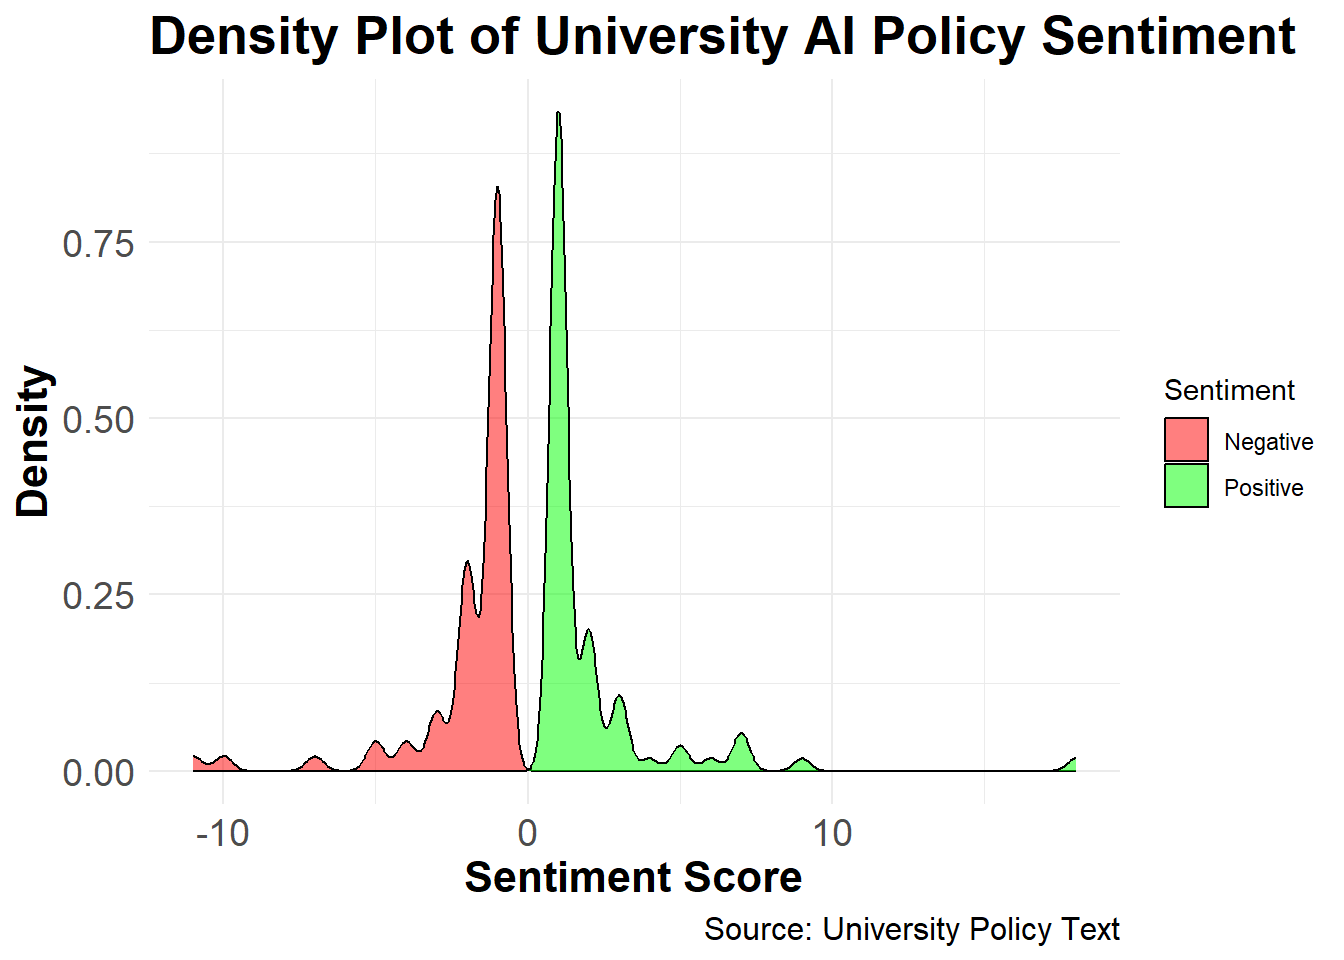
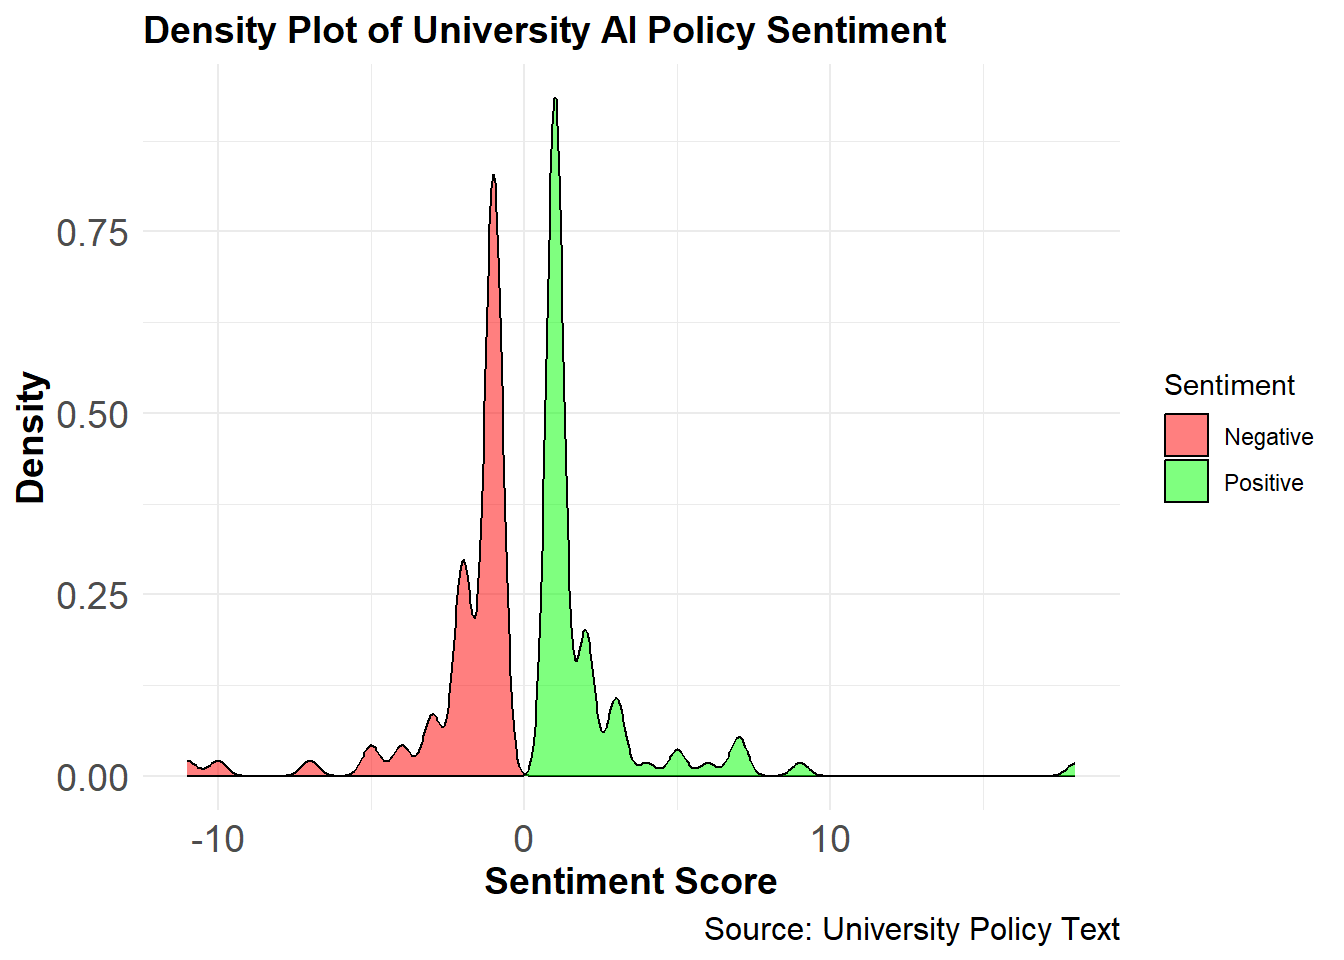
Promote conclusion to Chapter 12 and re-render book outputs

diff --git a/docs/chapter-6.html b/docs/chapter-6.html
@@ -441,7 +441,7 @@ div.csl-indent {
 </li>
           <li class="sidebar-item">
   <div class="sidebar-item-container"> 
-  <a href="./conclusion.html" class="sidebar-item-text sidebar-link"><span class="chapter-title">Conclusion</span></a>
+  <a href="./chapter-12.html" class="sidebar-item-text sidebar-link"><span class="chapter-title">Conclusion</span></a>
   </div>
 </li>
       </ul>
@@ -843,15 +843,19 @@ div.csl-indent {
 <span id="cb8-6"><a href="#cb8-6" aria-hidden="true" tabindex="-1"></a>    <span class="at">pct_admitted =</span> drvadm2022_percent_admitted_total, <span class="co"># Admission percentage</span></span>
 <span id="cb8-7"><a href="#cb8-7" aria-hidden="true" tabindex="-1"></a>    <span class="at">tuition_fees =</span> drvic2022_tuition_and_fees_2021_22, <span class="co"># Tuition fees</span></span>
 <span id="cb8-8"><a href="#cb8-8" aria-hidden="true" tabindex="-1"></a>    <span class="at">grad_rate =</span> drvgr2022_graduation_rate_total_cohort, <span class="co"># Graduation rate</span></span>
-<span id="cb8-9"><a href="#cb8-9" aria-hidden="true" tabindex="-1"></a>    <span class="at">percent_fin_aid =</span> sfa2122_percent_of_full_time_first_time_undergraduates_awarded_any_financial_aid, <span class="co"># Financial aid</span></span>
-<span id="cb8-10"><a href="#cb8-10" aria-hidden="true" tabindex="-1"></a>    <span class="at">avg_salary =</span> drvhr2022_average_salary_equated_to_9_months_of_full_time_instructional_staff_all_ranks <span class="co"># Staff salary</span></span>
-<span id="cb8-11"><a href="#cb8-11" aria-hidden="true" tabindex="-1"></a>  ) <span class="sc">|&gt;</span></span>
-<span id="cb8-12"><a href="#cb8-12" aria-hidden="true" tabindex="-1"></a>  <span class="fu">filter</span>(<span class="sc">!</span><span class="fu">is.na</span>(grad_rate)) <span class="sc">|&gt;</span> <span class="co"># Remove rows with missing graduation rates</span></span>
-<span id="cb8-13"><a href="#cb8-13" aria-hidden="true" tabindex="-1"></a>  <span class="fu">mutate</span>(</span>
-<span id="cb8-14"><a href="#cb8-14" aria-hidden="true" tabindex="-1"></a>    <span class="co"># Create binary dependent variable for high graduation rates (median split or threshold)</span></span>
-<span id="cb8-15"><a href="#cb8-15" aria-hidden="true" tabindex="-1"></a>    <span class="at">good_grad_rate =</span> <span class="fu">if_else</span>(grad_rate <span class="sc">&gt;</span> <span class="dv">62</span>, <span class="dv">1</span>, <span class="dv">0</span>),</span>
-<span id="cb8-16"><a href="#cb8-16" aria-hidden="true" tabindex="-1"></a>    <span class="at">good_grad_rate =</span> <span class="fu">as.factor</span>(good_grad_rate) <span class="co"># Convert to factor for classification</span></span>
-<span id="cb8-17"><a href="#cb8-17" aria-hidden="true" tabindex="-1"></a>  )</span></code></pre></div><button title="Copy to Clipboard" class="code-copy-button"><i class="bi"></i></button></div>
+<span id="cb8-9"><a href="#cb8-9" aria-hidden="true" tabindex="-1"></a>    <span class="co"># Financial aid</span></span>
+<span id="cb8-10"><a href="#cb8-10" aria-hidden="true" tabindex="-1"></a>    <span class="at">percent_fin_aid =</span> </span>
+<span id="cb8-11"><a href="#cb8-11" aria-hidden="true" tabindex="-1"></a>      sfa2122_percent_of_full_time_first_time_undergraduates_awarded_any_financial_aid, </span>
+<span id="cb8-12"><a href="#cb8-12" aria-hidden="true" tabindex="-1"></a>    <span class="co"># Staff salary</span></span>
+<span id="cb8-13"><a href="#cb8-13" aria-hidden="true" tabindex="-1"></a>    <span class="at">avg_salary =</span> </span>
+<span id="cb8-14"><a href="#cb8-14" aria-hidden="true" tabindex="-1"></a>      drvhr2022_average_salary_equated_to_9_months_of_full_time_instructional_staff_all_ranks </span>
+<span id="cb8-15"><a href="#cb8-15" aria-hidden="true" tabindex="-1"></a>  ) <span class="sc">|&gt;</span></span>
+<span id="cb8-16"><a href="#cb8-16" aria-hidden="true" tabindex="-1"></a>  <span class="fu">filter</span>(<span class="sc">!</span><span class="fu">is.na</span>(grad_rate)) <span class="sc">|&gt;</span> <span class="co"># Remove rows with missing graduation rates</span></span>
+<span id="cb8-17"><a href="#cb8-17" aria-hidden="true" tabindex="-1"></a>  <span class="fu">mutate</span>(</span>
+<span id="cb8-18"><a href="#cb8-18" aria-hidden="true" tabindex="-1"></a>    <span class="co"># Create binary dependent variable for high graduation rates (median split or threshold)</span></span>
+<span id="cb8-19"><a href="#cb8-19" aria-hidden="true" tabindex="-1"></a>    <span class="at">good_grad_rate =</span> <span class="fu">if_else</span>(grad_rate <span class="sc">&gt;</span> <span class="dv">62</span>, <span class="dv">1</span>, <span class="dv">0</span>),</span>
+<span id="cb8-20"><a href="#cb8-20" aria-hidden="true" tabindex="-1"></a>    <span class="at">good_grad_rate =</span> <span class="fu">as.factor</span>(good_grad_rate) <span class="co"># Convert to factor for classification</span></span>
+<span id="cb8-21"><a href="#cb8-21" aria-hidden="true" tabindex="-1"></a>  )</span></code></pre></div><button title="Copy to Clipboard" class="code-copy-button"><i class="bi"></i></button></div>
 </div>
 </section>
 <section id="step-4-exploratory-data-analysis-eda" class="level4">

diff --git a/docs/colophon.html b/docs/colophon.html
@@ -34,7 +34,7 @@ ul.task-list li input[type="checkbox"] {
 <script src="site_libs/quarto-search/quarto-search.js"></script>
 <meta name="quarto:offset" content="./">
 <link href="./references.html" rel="next">
-<link href="./conclusion.html" rel="prev">
+<link href="./chapter-12.html" rel="prev">
 <script src="site_libs/quarto-html/quarto.js" type="module"></script>
 <script src="site_libs/quarto-html/tabsets/tabsets.js" type="module"></script>
 <script src="site_libs/quarto-html/popper.min.js"></script>
@@ -386,7 +386,7 @@ ul.task-list li input[type="checkbox"] {
 </li>
           <li class="sidebar-item">
   <div class="sidebar-item-container"> 
-  <a href="./conclusion.html" class="sidebar-item-text sidebar-link"><span class="chapter-title">Conclusion</span></a>
+  <a href="./chapter-12.html" class="sidebar-item-text sidebar-link"><span class="chapter-title">Conclusion</span></a>
   </div>
 </li>
       </ul>
@@ -442,14 +442,14 @@ ul.task-list li input[type="checkbox"] {
 <p>This book was written in <a href="https://quarto.org/">Quarto</a> and rendered to HTML and PDF. All analyses were conducted in R. The source code is available at the book’s GitHub repository.</p>
 <section id="about-the-authors" class="level2">
 <h2 class="anchored" data-anchor-id="about-the-authors">About the Authors</h2>
-<p><strong>Wei Wang</strong> is a PhD student in Learning, Design, and Technology at the University of Tennessee, Knoxville. His research focuses on generative AI in education, educational data science, and evaluation methods. Website: <a href="https://wwang93.github.io/Vino-Wang-Website/" class="uri">https://wwang93.github.io/Vino-Wang-Website/</a></p>
+<p><strong>Wei Wang</strong> is a PhD Candidate in Learning, Design, and Technology at the University of Tennessee, Knoxville. His research focuses on generative AI in education, educational data science, and evaluation methods. Website: <a href="https://wwang93.github.io/Vino-Wang-Website/" class="uri">https://wwang93.github.io/Vino-Wang-Website/</a></p>
 <p><strong>Mete Akcaoglu</strong> is Professor of Instructional Technology and Chair of the Department of Learning, Teaching, and Human Development at Georgia Southern University. His research examines game-based learning, interest development, computational thinking, and online pedagogy, with a methodological focus on computational approaches to educational data. Website: <a href="https://meteakcaoglu.com/" class="uri">https://meteakcaoglu.com/</a></p>
 <p><strong>Joshua M. Rosenberg</strong> is Haslam Family Professor and Associate Professor of STEM Education at the University of Tennessee, Knoxville. His research focuses on learning analytics, educational data science, and open, reproducible research in education. Website: <a href="https://joshuamrosenberg.com/" class="uri">https://joshuamrosenberg.com/</a></p>
 <p><strong>Shaun Kellogg</strong> is Senior Director of the Office of Research and Promising Practices at the North Carolina Department of Public Instruction. His work focuses on evidence-based decision-making, research-practice partnerships, and the use of data to improve educational outcomes. Website: <a href="https://www.dpi.nc.gov/blog/2025/09/17/how-ncdpis-office-research-promising-practices-turns-evidence-action" class="uri">https://www.dpi.nc.gov/blog/2025/09/17/how-ncdpis-office-research-promising-practices-turns-evidence-action</a></p>
 <p>The R session information below documents the computational environment used to produce this edition, including the R version, platform, and all packages loaded during rendering.</p>
 <div class="cell">
 <div class="cell-output cell-output-stdout">
-<pre><code>Build date: May 01, 2026 </code></pre>
+<pre><code>Build date: May 18, 2026 </code></pre>
 </div>
 <div class="cell-output cell-output-stdout">
 <pre><code>Quarto version: 1.9.37 </code></pre>
@@ -906,7 +906,7 @@ loaded via a namespace (and not attached):
   </script>
 <nav class="page-navigation">
   <div class="nav-page nav-page-previous">
-      <a href="./conclusion.html" class="pagination-link" aria-label="Conclusion">
+      <a href="./chapter-12.html" class="pagination-link" aria-label="Conclusion">
         <i class="bi bi-arrow-left-short"></i> <span class="nav-page-text"><span class="chapter-title">Conclusion</span></span>
       </a>          
   </div>

diff --git a/docs/chapter-7.html b/docs/chapter-7.html
@@ -441,7 +441,7 @@ div.csl-indent {
 </li>
           <li class="sidebar-item">
   <div class="sidebar-item-container"> 
-  <a href="./conclusion.html" class="sidebar-item-text sidebar-link"><span class="chapter-title">Conclusion</span></a>
+  <a href="./chapter-12.html" class="sidebar-item-text sidebar-link"><span class="chapter-title">Conclusion</span></a>
   </div>
 </li>
       </ul>
@@ -758,7 +758,6 @@ div.csl-indent {
 </tr>
 </tbody>
 </table>
-<hr>
 </section>
 <section id="calling-the-lm-studio-api-from-r" class="level3">
 <h3 class="anchored" data-anchor-id="calling-the-lm-studio-api-from-r">Calling the LM Studio API from R</h3>
@@ -785,9 +784,9 @@ div.csl-indent {
 <table class="caption-top table">
 <caption>Table 7.3. Comparison of cloud and local LLM workflows.</caption>
 <colgroup>
-<col style="width: 19%">
-<col style="width: 44%">
-<col style="width: 36%">
+<col style="width: 23%">
+<col style="width: 42%">
+<col style="width: 34%">
 </colgroup>
 <thead>
 <tr class="header">

diff --git a/docs/chapter-4.html b/docs/chapter-4.html
@@ -441,7 +441,7 @@ div.csl-indent {
 </li>
           <li class="sidebar-item">
   <div class="sidebar-item-container"> 
-  <a href="./conclusion.html" class="sidebar-item-text sidebar-link"><span class="chapter-title">Conclusion</span></a>
+  <a href="./chapter-12.html" class="sidebar-item-text sidebar-link"><span class="chapter-title">Conclusion</span></a>
   </div>
 </li>
       </ul>
@@ -561,7 +561,7 @@ div.csl-indent {
 <p>To demonstrate, we will scrape a simple Wikipedia page. Static pages, which lack interactive elements like JavaScript, are simpler to scrape. You can view the page’s HTML source in your browser by selecting <strong>Developer Tools &gt; View Source</strong>.</p>
 <div class="cell">
 <div class="code-copy-outer-scaffold"><div class="sourceCode cell-code" id="cb2"><pre class="sourceCode r code-with-copy"><code class="sourceCode r"><span id="cb2-1"><a href="#cb2-1" aria-hidden="true" tabindex="-1"></a><span class="co"># Load the webpage</span></span>
-<span id="cb2-2"><a href="#cb2-2" aria-hidden="true" tabindex="-1"></a>wikipedia_page <span class="ot">&lt;-</span> <span class="fu">read_html</span>(<span class="st">"https://en.wikipedia.org/wiki/World_Health_Organization_ranking_of_health_systems_in_2000"</span>)</span>
+<span id="cb2-2"><a href="#cb2-2" aria-hidden="true" tabindex="-1"></a>wikipedia_page <span class="ot">&lt;-</span> <span class="fu">read_html</span>(<span class="st">"https://en.wikipedia.org"</span>)</span>
 <span id="cb2-3"><a href="#cb2-3" aria-hidden="true" tabindex="-1"></a></span>
 <span id="cb2-4"><a href="#cb2-4" aria-hidden="true" tabindex="-1"></a><span class="co"># Verify that the webpage loaded successfully</span></span>
 <span id="cb2-5"><a href="#cb2-5" aria-hidden="true" tabindex="-1"></a>wikipedia_page</span></code></pre></div><button title="Copy to Clipboard" class="code-copy-button"><i class="bi"></i></button></div>
@@ -1160,9 +1160,9 @@ The analysis of the top 12 frequently mentioned terms highlighted additional foc
 <span id="cb39-14"><a href="#cb39-14" aria-hidden="true" tabindex="-1"></a>  ) <span class="sc">+</span></span>
 <span id="cb39-15"><a href="#cb39-15" aria-hidden="true" tabindex="-1"></a>  <span class="fu">theme_minimal</span>() <span class="sc">+</span></span>
 <span id="cb39-16"><a href="#cb39-16" aria-hidden="true" tabindex="-1"></a>  <span class="fu">theme</span>(</span>
-<span id="cb39-17"><a href="#cb39-17" aria-hidden="true" tabindex="-1"></a>    <span class="at">plot.title =</span> <span class="fu">element_text</span>(<span class="at">face =</span> <span class="st">"bold"</span>, <span class="at">size =</span> <span class="dv">20</span>),</span>
+<span id="cb39-17"><a href="#cb39-17" aria-hidden="true" tabindex="-1"></a>    <span class="at">plot.title =</span> <span class="fu">element_text</span>(<span class="at">face =</span> <span class="st">"bold"</span>, <span class="at">size =</span> <span class="dv">14</span>),</span>
 <span id="cb39-18"><a href="#cb39-18" aria-hidden="true" tabindex="-1"></a>    <span class="at">axis.text =</span> <span class="fu">element_text</span>(<span class="at">size =</span> <span class="dv">14</span>),</span>
-<span id="cb39-19"><a href="#cb39-19" aria-hidden="true" tabindex="-1"></a>    <span class="at">axis.title =</span> <span class="fu">element_text</span>(<span class="at">face =</span> <span class="st">"bold"</span>, <span class="at">size =</span> <span class="dv">16</span>),</span>
+<span id="cb39-19"><a href="#cb39-19" aria-hidden="true" tabindex="-1"></a>    <span class="at">axis.title =</span> <span class="fu">element_text</span>(<span class="at">face =</span> <span class="st">"bold"</span>, <span class="at">size =</span> <span class="dv">14</span>),</span>
 <span id="cb39-20"><a href="#cb39-20" aria-hidden="true" tabindex="-1"></a>    <span class="at">plot.caption =</span> <span class="fu">element_text</span>(<span class="at">size =</span> <span class="dv">12</span>)</span>
 <span id="cb39-21"><a href="#cb39-21" aria-hidden="true" tabindex="-1"></a>  )</span>
 <span id="cb39-22"><a href="#cb39-22" aria-hidden="true" tabindex="-1"></a></span>

diff --git a/docs/chapter-11.html b/docs/chapter-11.html
@@ -88,7 +88,7 @@ div.csl-indent {
 <script src="site_libs/quarto-search/fuse.min.js"></script>
 <script src="site_libs/quarto-search/quarto-search.js"></script>
 <meta name="quarto:offset" content="./">
-<link href="./conclusion.html" rel="next">
+<link href="./chapter-12.html" rel="next">
 <link href="./section-4-Intro.html" rel="prev">
 <script src="site_libs/quarto-html/quarto.js" type="module"></script>
 <script src="site_libs/quarto-html/tabsets/tabsets.js" type="module"></script>
@@ -441,7 +441,7 @@ div.csl-indent {
 </li>
           <li class="sidebar-item">
   <div class="sidebar-item-container"> 
-  <a href="./conclusion.html" class="sidebar-item-text sidebar-link"><span class="chapter-title">Conclusion</span></a>
+  <a href="./chapter-12.html" class="sidebar-item-text sidebar-link"><span class="chapter-title">Conclusion</span></a>
   </div>
 </li>
       </ul>
@@ -673,7 +673,6 @@ genai-policy-analysis/
 
 └── README.md</code></pre>
 <p>This organization separates communication documents from raw data and supports reuse and extension.</p>
-<hr>
 </section>
 <section id="website-configuration" class="level3">
 <h3 class="anchored" data-anchor-id="website-configuration">11.4.4 Website Configuration</h3>
@@ -1227,7 +1226,7 @@ Xie, Y., Allaire, J. J., &amp; Grolemund, G. (2018). <em><span>R</span> markdown
       </a>          
   </div>
   <div class="nav-page nav-page-next">
-      <a href="./conclusion.html" class="pagination-link" aria-label="Conclusion">
+      <a href="./chapter-12.html" class="pagination-link" aria-label="Conclusion">
         <span class="nav-page-text"><span class="chapter-title">Conclusion</span></span> <i class="bi bi-arrow-right-short"></i>
       </a>
   </div>

diff --git a/docs/index.html b/docs/index.html
@@ -7,7 +7,7 @@
 <meta name="viewport" content="width=device-width, initial-scale=1.0, user-scalable=yes">
 
 <meta name="author" content="Wei Wang, Mete Akcaoglu, Joshua Rosenberg, Shaun Kellogg">
-<meta name="dcterms.date" content="2026-05-01">
+<meta name="dcterms.date" content="2026-05-18">
 
 <title>Computational Analysis of Educational Data: A Field Guide Using R</title>
 <style>
@@ -407,7 +407,7 @@ div.csl-indent {
 </li>
           <li class="sidebar-item">
   <div class="sidebar-item-container"> 
-  <a href="./conclusion.html" class="sidebar-item-text sidebar-link"><span class="chapter-title">Conclusion</span></a>
+  <a href="./chapter-12.html" class="sidebar-item-text sidebar-link"><span class="chapter-title">Conclusion</span></a>
   </div>
 </li>
       </ul>
@@ -467,7 +467,7 @@ div.csl-indent {
     <div>
     <div class="quarto-title-meta-heading">Published</div>
     <div class="quarto-title-meta-contents">
-      <p class="date">May 1, 2026</p>
+      <p class="date">May 18, 2026</p>
     </div>
   </div>
   

diff --git a/docs/section-2-Intro.html b/docs/section-2-Intro.html
@@ -441,7 +441,7 @@ div.csl-indent {
 </li>
           <li class="sidebar-item">
   <div class="sidebar-item-container"> 
-  <a href="./conclusion.html" class="sidebar-item-text sidebar-link"><span class="chapter-title">Conclusion</span></a>
+  <a href="./chapter-12.html" class="sidebar-item-text sidebar-link"><span class="chapter-title">Conclusion</span></a>
   </div>
 </li>
       </ul>
@@ -511,7 +511,7 @@ div.csl-indent {
 <col style="width: 24%">
 <col style="width: 24%">
 <col style="width: 24%">
-<col style="width: 27%">
+<col style="width: 26%">
 </colgroup>
 <thead>
 <tr class="header">

diff --git a/docs/chapter-1.html b/docs/chapter-1.html
@@ -421,7 +421,7 @@ pre > code.sourceCode > span > a:first-child::before { text-decoration: underlin
 </li>
           <li class="sidebar-item">
   <div class="sidebar-item-container"> 
-  <a href="./conclusion.html" class="sidebar-item-text sidebar-link"><span class="chapter-title">Conclusion</span></a>
+  <a href="./chapter-12.html" class="sidebar-item-text sidebar-link"><span class="chapter-title">Conclusion</span></a>
   </div>
 </li>
       </ul>

diff --git a/docs/chapter-10.html b/docs/chapter-10.html
@@ -441,7 +441,7 @@ div.csl-indent {
 </li>
           <li class="sidebar-item">
   <div class="sidebar-item-container"> 
-  <a href="./conclusion.html" class="sidebar-item-text sidebar-link"><span class="chapter-title">Conclusion</span></a>
+  <a href="./chapter-12.html" class="sidebar-item-text sidebar-link"><span class="chapter-title">Conclusion</span></a>
   </div>
 </li>
       </ul>

diff --git a/docs/chapter-2.html b/docs/chapter-2.html
@@ -421,7 +421,7 @@ pre > code.sourceCode > span > a:first-child::before { text-decoration: underlin
 </li>
           <li class="sidebar-item">
   <div class="sidebar-item-container"> 
-  <a href="./conclusion.html" class="sidebar-item-text sidebar-link"><span class="chapter-title">Conclusion</span></a>
+  <a href="./chapter-12.html" class="sidebar-item-text sidebar-link"><span class="chapter-title">Conclusion</span></a>
   </div>
 </li>
       </ul>

diff --git a/docs/chapter-3.html b/docs/chapter-3.html
@@ -441,7 +441,7 @@ div.csl-indent {
 </li>
           <li class="sidebar-item">
   <div class="sidebar-item-container"> 
-  <a href="./conclusion.html" class="sidebar-item-text sidebar-link"><span class="chapter-title">Conclusion</span></a>
+  <a href="./chapter-12.html" class="sidebar-item-text sidebar-link"><span class="chapter-title">Conclusion</span></a>
   </div>
 </li>
       </ul>

diff --git a/docs/chapter-5.html b/docs/chapter-5.html
@@ -441,7 +441,7 @@ div.csl-indent {
 </li>
           <li class="sidebar-item">
   <div class="sidebar-item-container"> 
-  <a href="./conclusion.html" class="sidebar-item-text sidebar-link"><span class="chapter-title">Conclusion</span></a>
+  <a href="./chapter-12.html" class="sidebar-item-text sidebar-link"><span class="chapter-title">Conclusion</span></a>
   </div>
 </li>
       </ul>